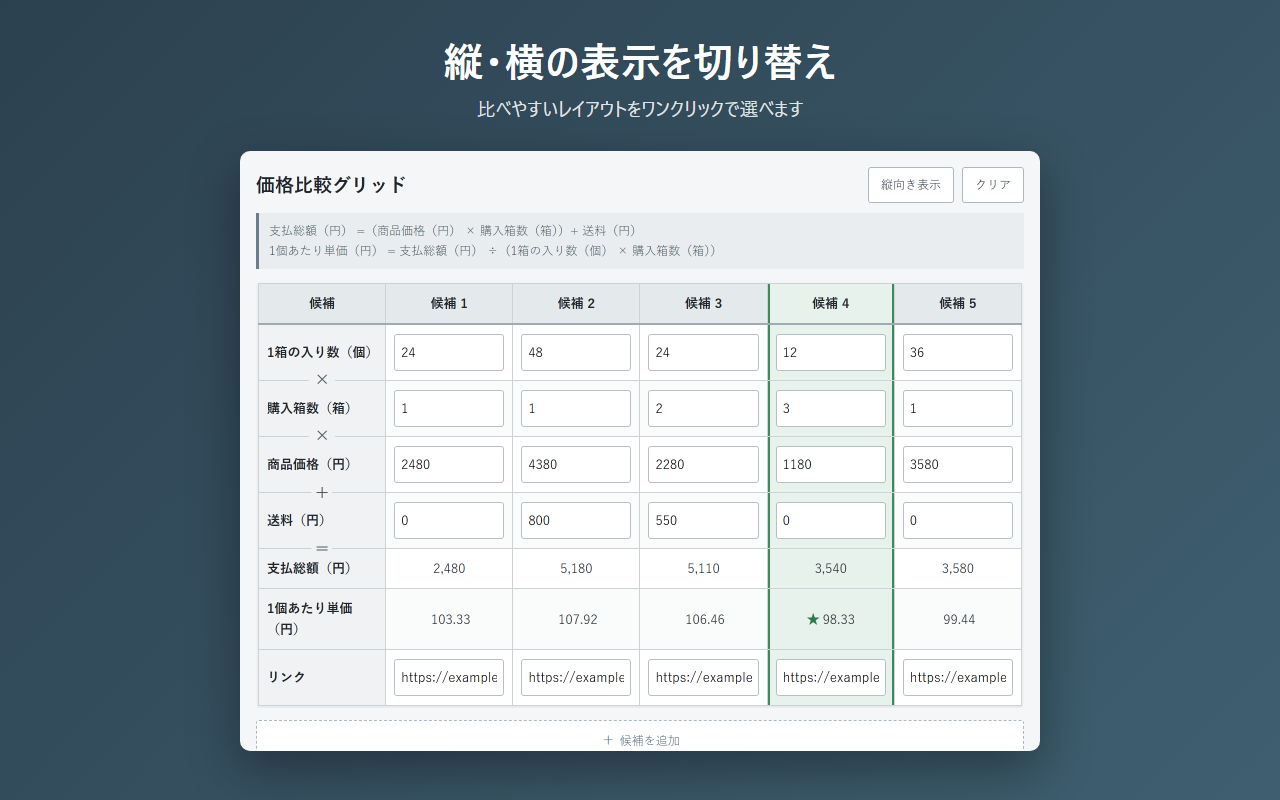
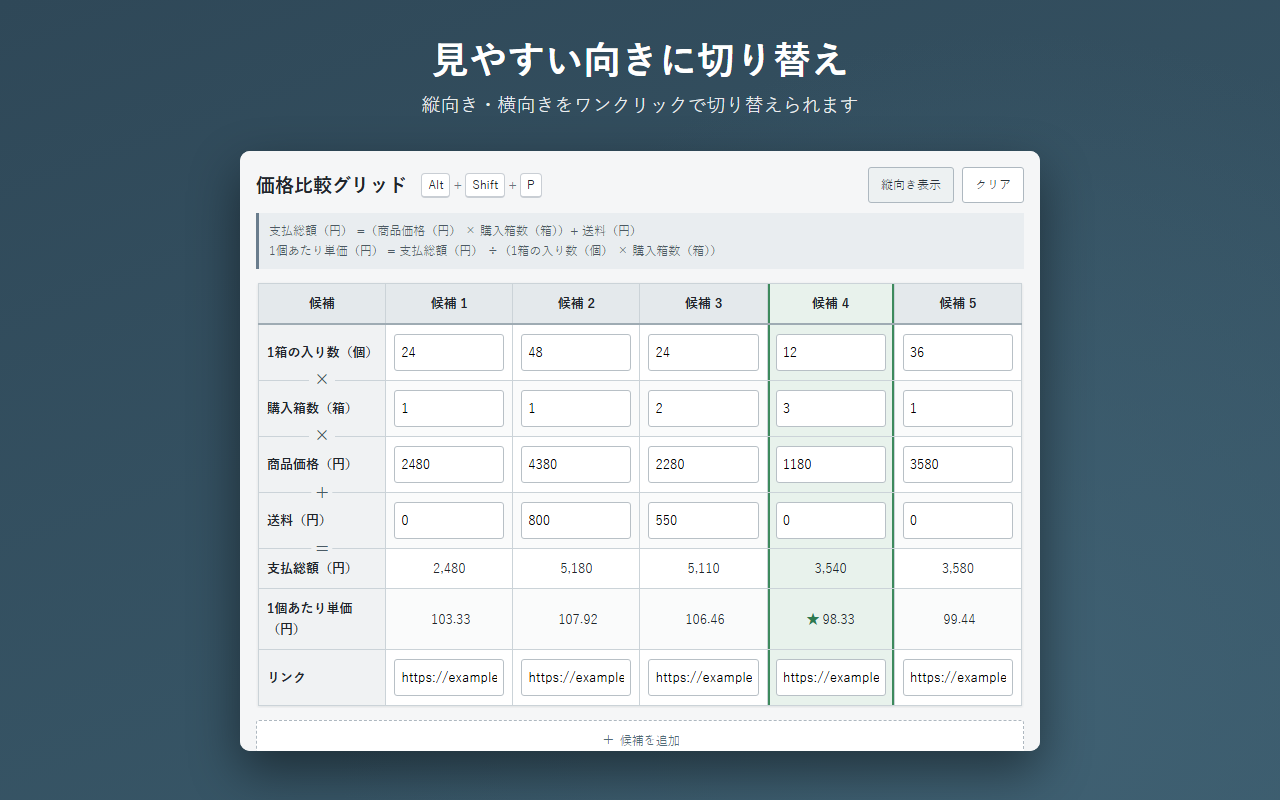
Cover 12 store locales with localized descriptions and screenshots
- Retake all screenshots (3 per locale) from the current popup, with a localized headline and the shortcut badge
- Add descriptions for ja, en, zh_CN, hi, es, fr, ar, bn, pt_BR, pt_PT, ru, ko
- List all locales in store/config.yaml

diff --git a/STORE_MATERIALS.md b/STORE_MATERIALS.md
@@ -70,11 +70,12 @@ No. All JavaScript is bundled in the extension package; no remote code is loaded
 - Extension icon source: `icon.svg` (calculator motif, 128x128 viewBox)
 - Extension/store icon: `icon.png` (128x128, opaque background)
 - Layout follows `AGENT_INPUT_SPEC.md`: everything lives under `store/assets/` (icon, tiles, per-locale description and screenshots); `store/package.zip` is the built package
-- Screenshots (1280x800, 24-bit PNG, no alpha)
-  - `assets/locales/ja/screenshots/01.png`: unit price calculation and lowest-price highlighting
-  - `assets/locales/ja/screenshots/02.png`: switched layout
-  - `assets/locales/ja/screenshots/03.png`: 7 candidates after adding
-  - `assets/locales/en/screenshots/01.png`: English UI
+- Screenshots: 12 locales (ja, en, zh_CN, hi, es, fr, ar, bn, pt_BR, pt_PT, ru, ko) x 3 images at `store/assets/locales/<locale>/screenshots/01-03.png` (1280x800, 24-bit PNG, no alpha)
+  - `01.png`: unit price calculation and lowest-price highlighting (5 candidates)
+  - `02.png`: wide layout
+  - `03.png`: 7 candidates after adding
+  - Each image is the popup rendered in that locale with a localized headline; the shortcut badge shows Alt+Shift+P
+- Descriptions: `store/assets/locales/<locale>/description.txt` (all 12 locales, mention the Alt+Shift+P shortcut)
 - Small promo tile: `store/assets/promo-tile-440x280.png`
 - Marquee promo tile: `store/assets/marquee-1400x560.png`
 - Sample data uses `example.com` links and fictional prices only.
